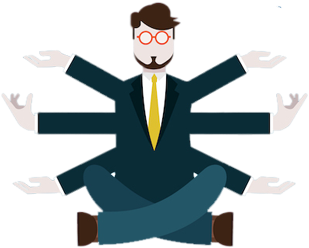
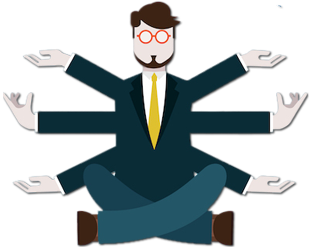
style(index): add images

diff --git a/css/my-styles.css b/css/my-styles.css
@@ -79,7 +79,7 @@ body{
 #about-me-pic{
     position: absolute;
     margin-left: 60%;
-    margin-top: 15%;
+    margin-top: 5%;
 }
 .second-screen{
     display: block;
@@ -226,6 +226,9 @@ body{
 #second-third-lang{
     margin-right: 20%;
 }
+#first-lang{
+    margin-right: 45%;
+}
 .fourth-screen{
     display: block;
     height: 90vh;
@@ -302,6 +305,44 @@ body{
 #paper-plane{
     width: 150px;
     height: 150px;
+}
+.achievements-title-module{
+    position: relative;
+    margin-left: 40%;
+    background-image: linear-gradient(to right, #ffff00 0%, #ffcc00 100%);
+    width: 430px;
+    padding: 3px;
+    margin-top: 2%;
+}
+#achievements-title{
+    position: relative;
+    text-align: center;
+    margin-left: auto;
+    margin-right: auto;
+    width: 100%;
+    height: 100%;
+    font-family: Arial - Bold MT;
+    font-size: 40px;
+    font-weight: 900;
+    text-transform: uppercase;
+    outline : 0;
+    -moz-outline : 0;
+    background-image: linear-gradient(to right, #ffff00 0%, #ffcc00 100%);
+    -webkit-background-clip: text;
+    -webkit-text-fill-color: transparent;
+}
+#achievements-title-wrap{
+    background: black;
+}
+.sixth-screen{
+    width: 95vw;
+    height: 80vh;
+}
+#pic{
+    width: 450px;
+    height: 450px;
+    border-radius: 50%;
+    margin-left: 20%;
 }
 }
 @media screen and (max-width: 800px) {
